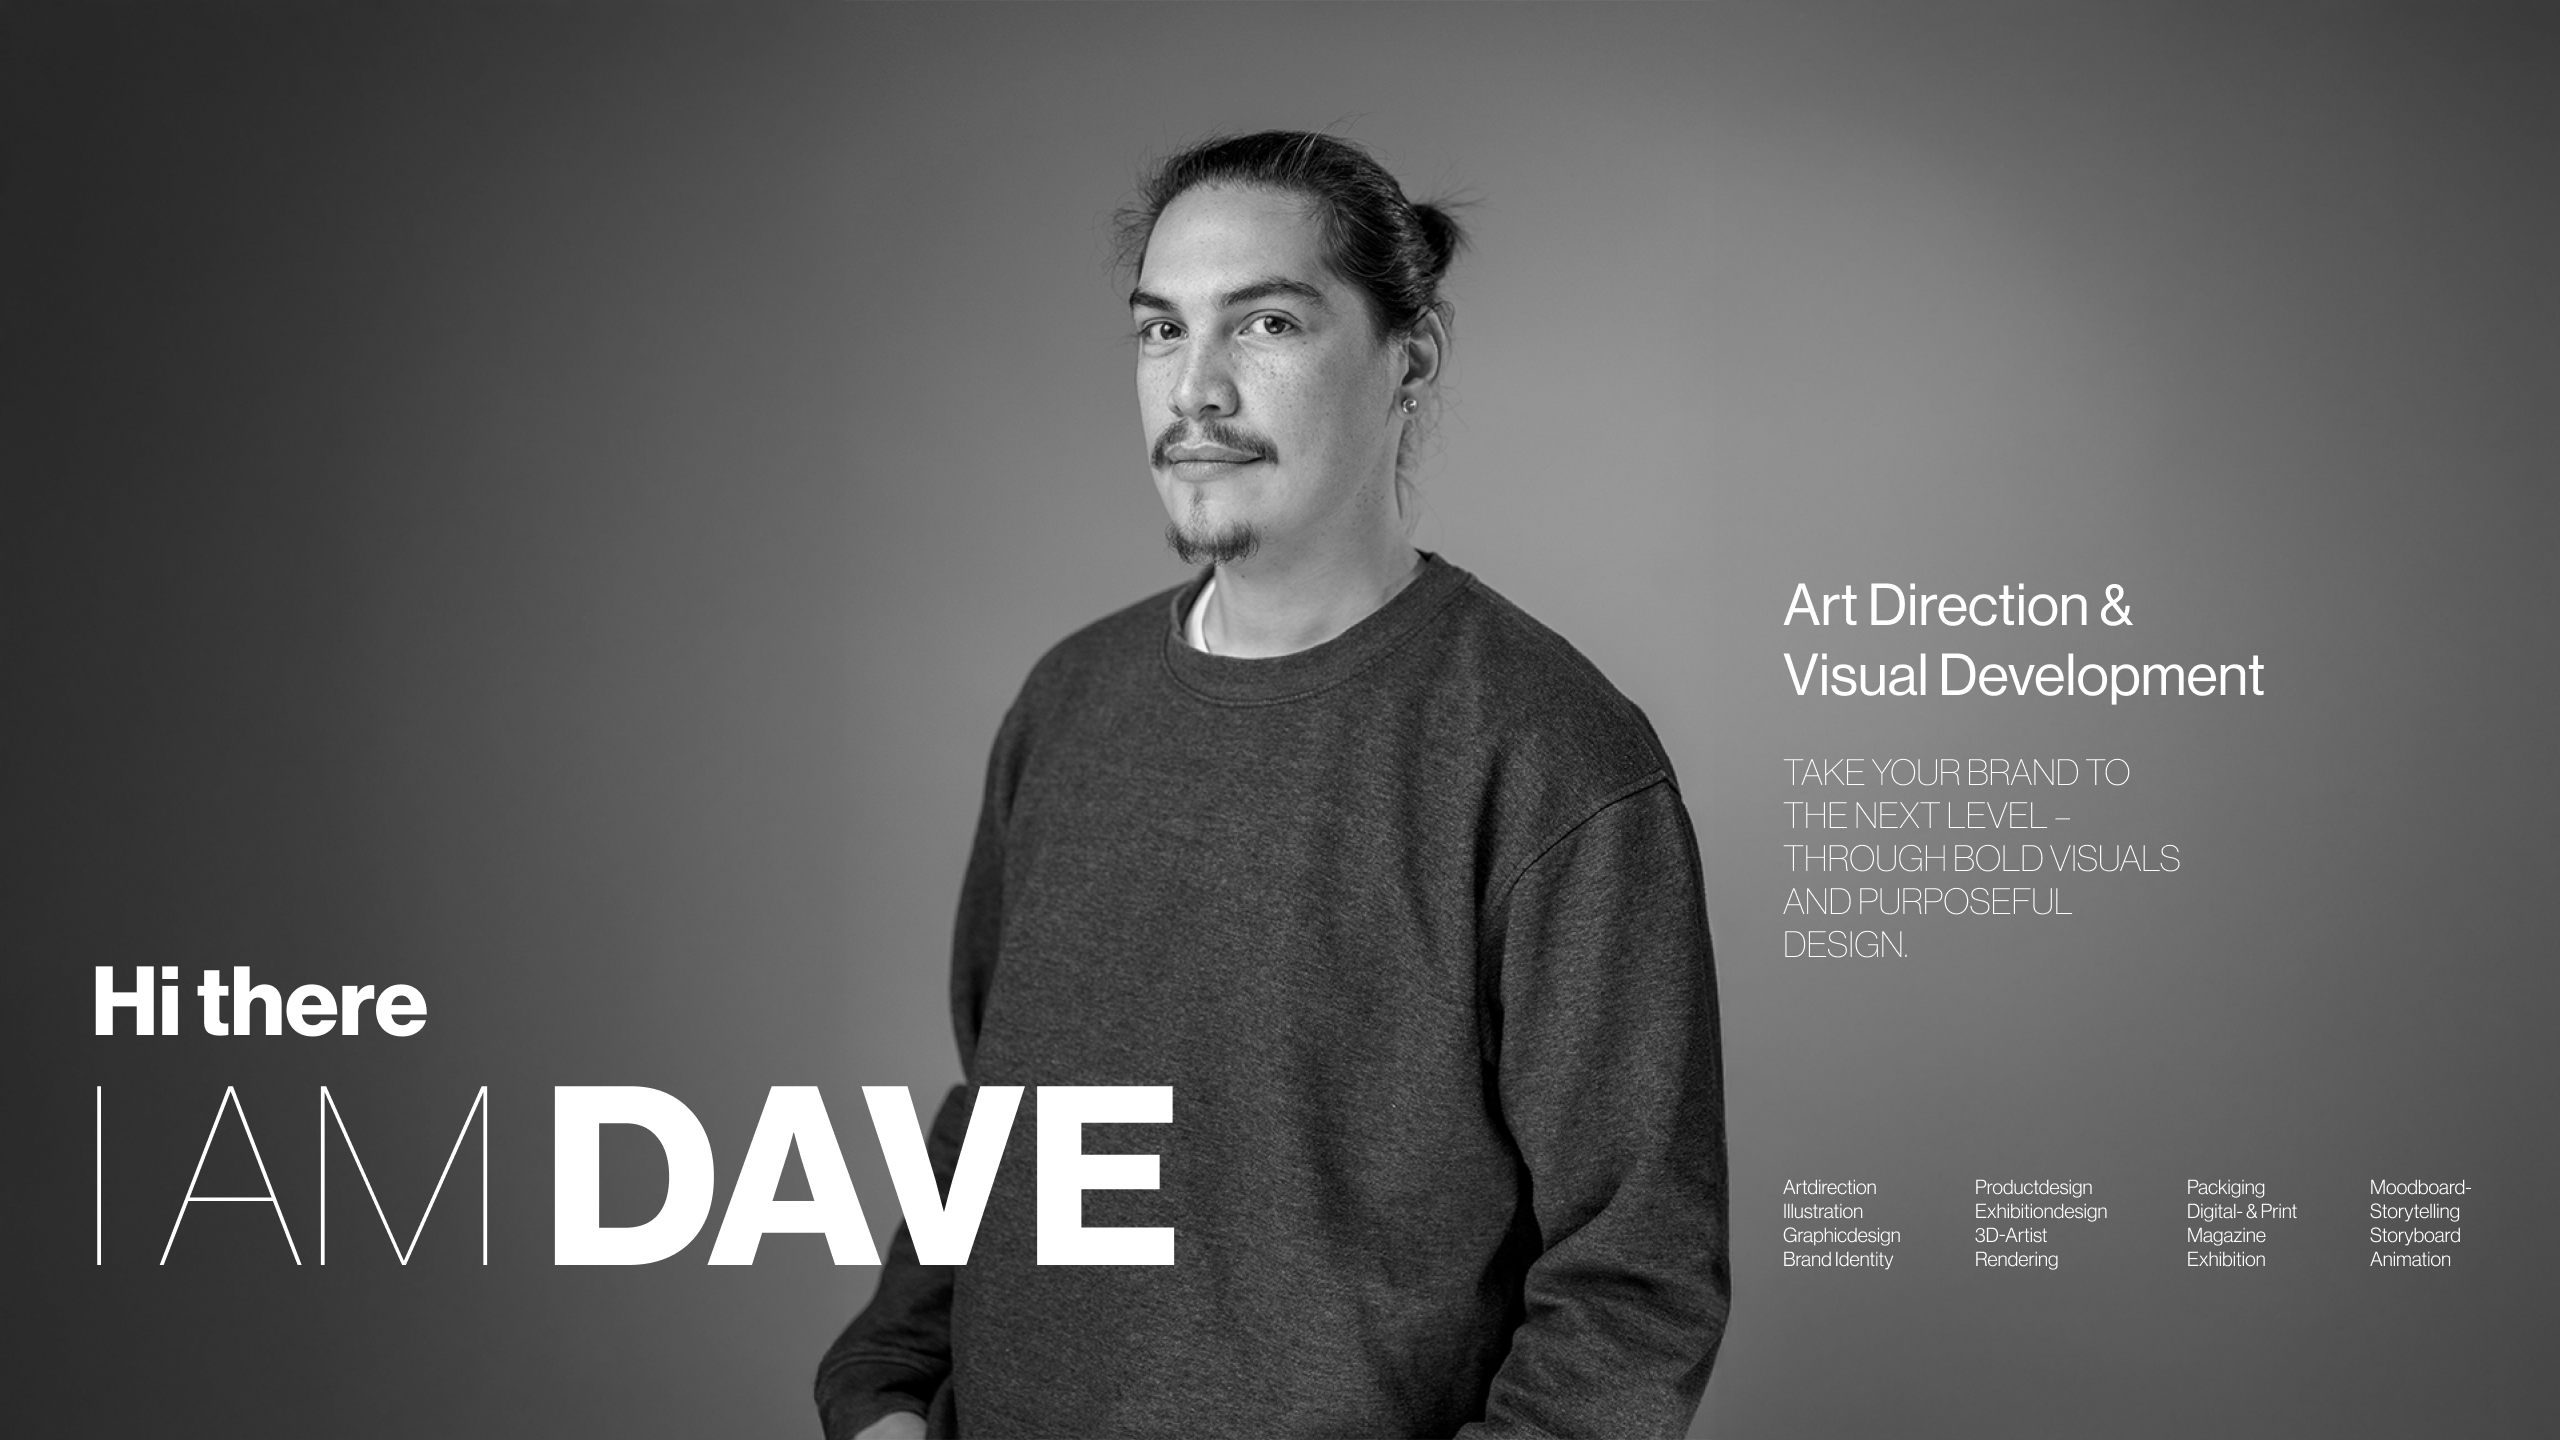
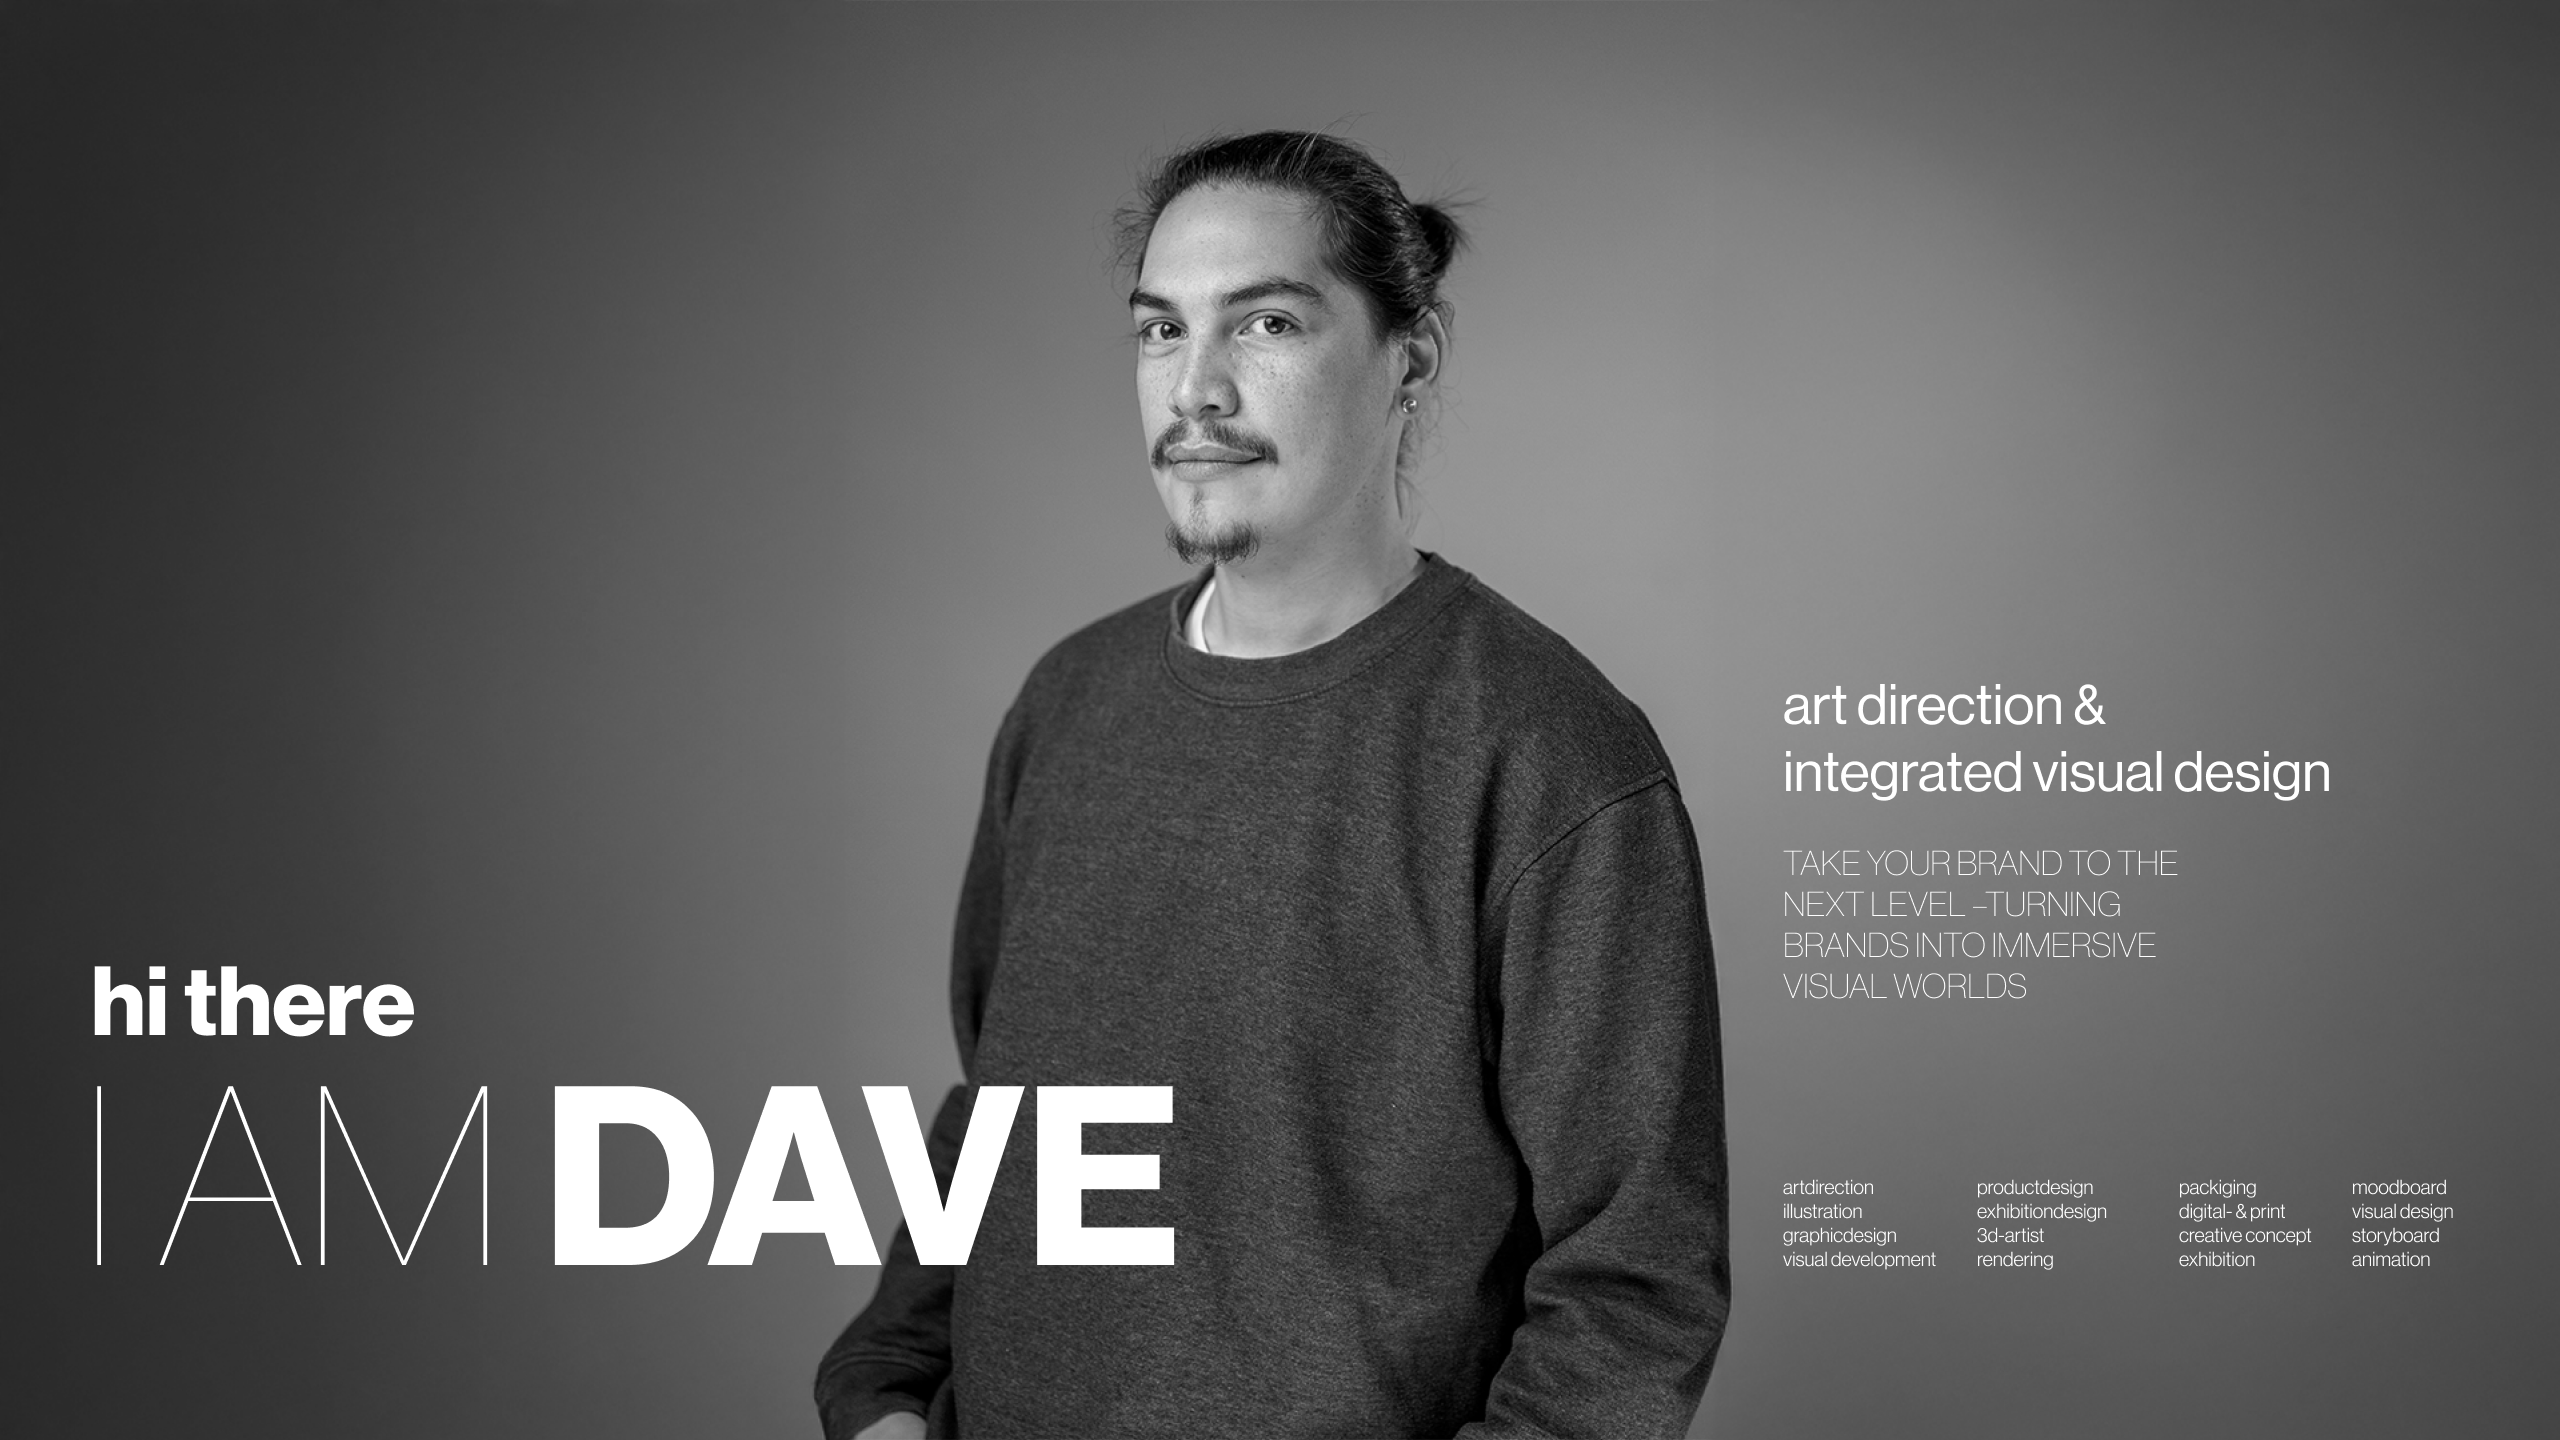
blub

diff --git a/index.html b/index.html
@@ -5,7 +5,7 @@
   <link href="https://fonts.googleapis.com/css2?family=Poppins:wght@400;600&display=swap" rel="stylesheet">
   <meta charset="UTF-8" />
   <meta name="viewport" content="width=device-width, initial-scale=1.0" />
-  <title>Dave RindoRindo | Art Direction & Visual Development</title>
+  <title>Dave RindoRindo | Art Direction & Integrated Visual Design</title>
   <link rel="stylesheet" href="style.css" />
   <script defer src="script.js"></script>
 
